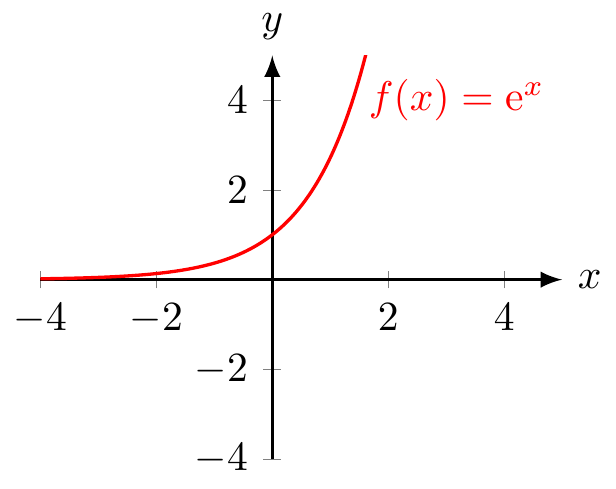
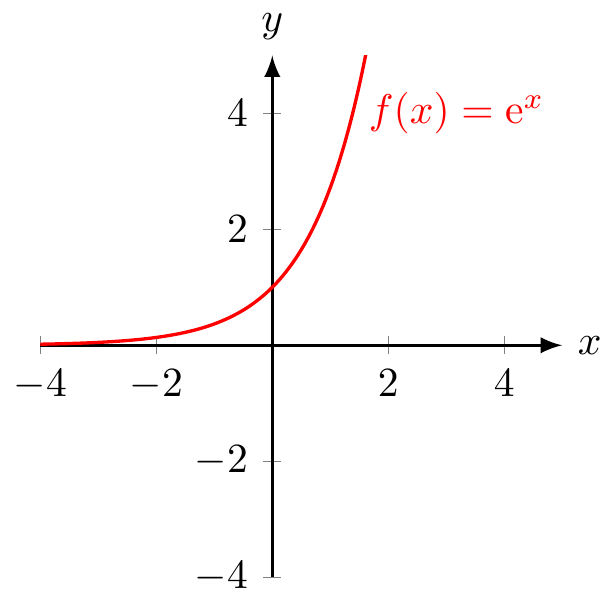
widen range

diff --git a/mathematics/exp-2/exp-2_inverted.tex b/mathematics/exp-2/exp-2_inverted.tex
@@ -34,7 +34,7 @@
 \begin{axis}[inverted,
   thick,
   width=6cm,
-  height=5cm,
+  height=6cm,
   domain=-4:2,
   samples=50,
   axis y line=middle,

diff --git a/mathematics/exp-2/exp-2.tex b/mathematics/exp-2/exp-2.tex
@@ -25,7 +25,7 @@
 \begin{axis}[
   thick,
   width=6cm,
-  height=5cm,
+  height=6cm,
   domain=-4:2,
   samples=50,
   axis y line=middle,

diff --git a/mathematics.md b/mathematics.md
@@ -268,7 +268,7 @@
 \begin{axis}[
   thick,
   width=6cm,
-  height=5cm,
+  height=6cm,
   domain=-4:2,
   samples=50,
   axis y line=middle,
@@ -1531,7 +1531,7 @@
 \begin{axis}[inverted,
   thick,
   width=6cm,
-  height=5cm,
+  height=6cm,
   domain=-4:2,
   samples=50,
   axis y line=middle,
